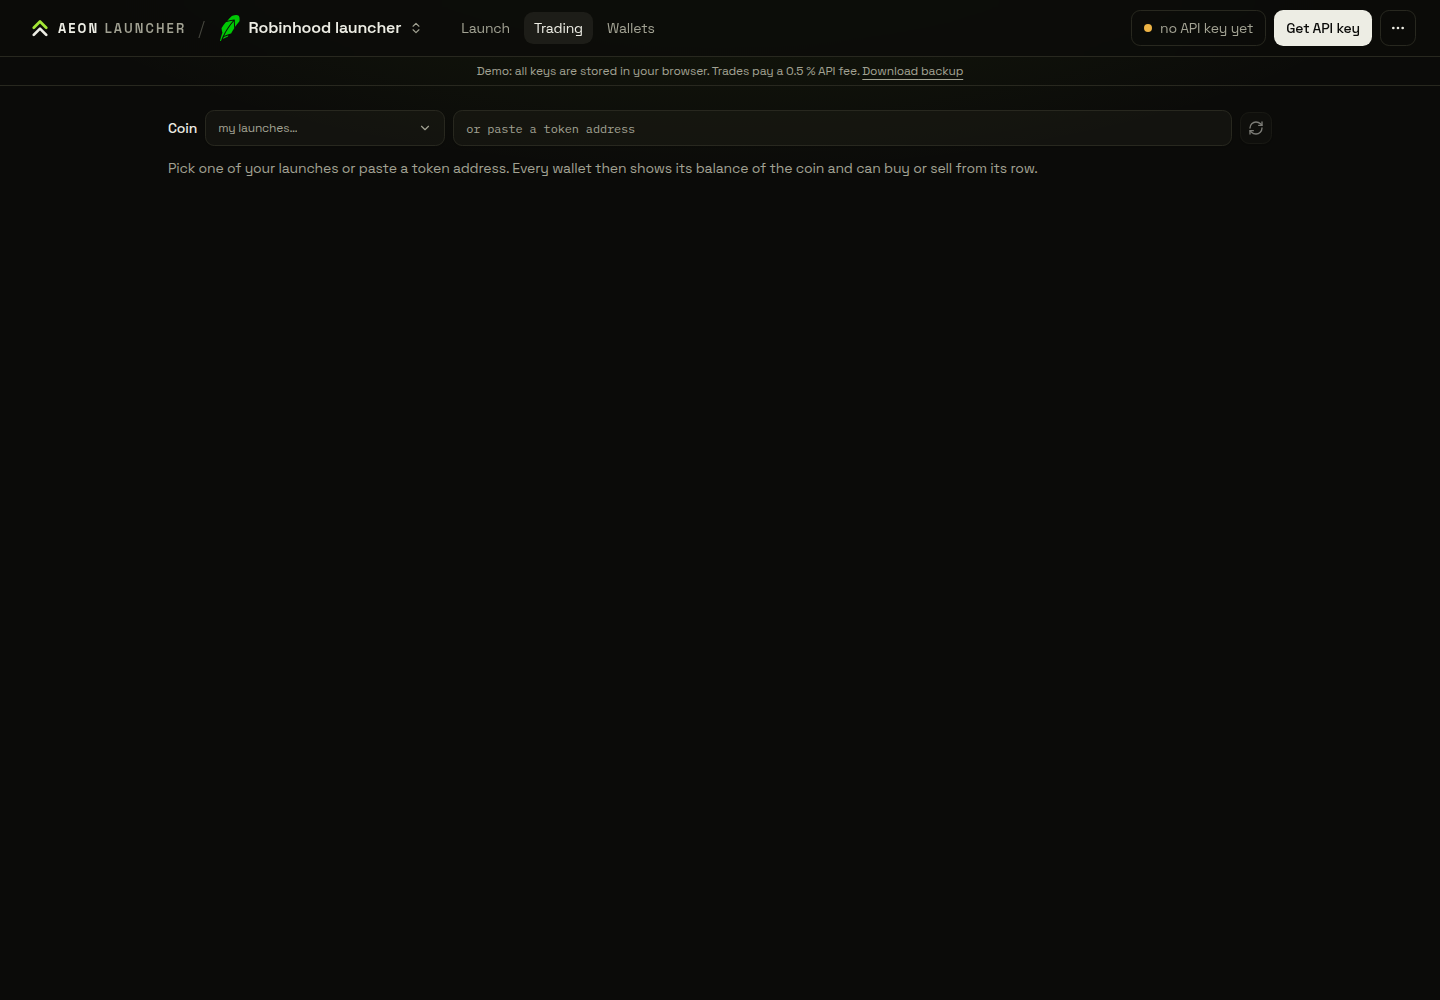
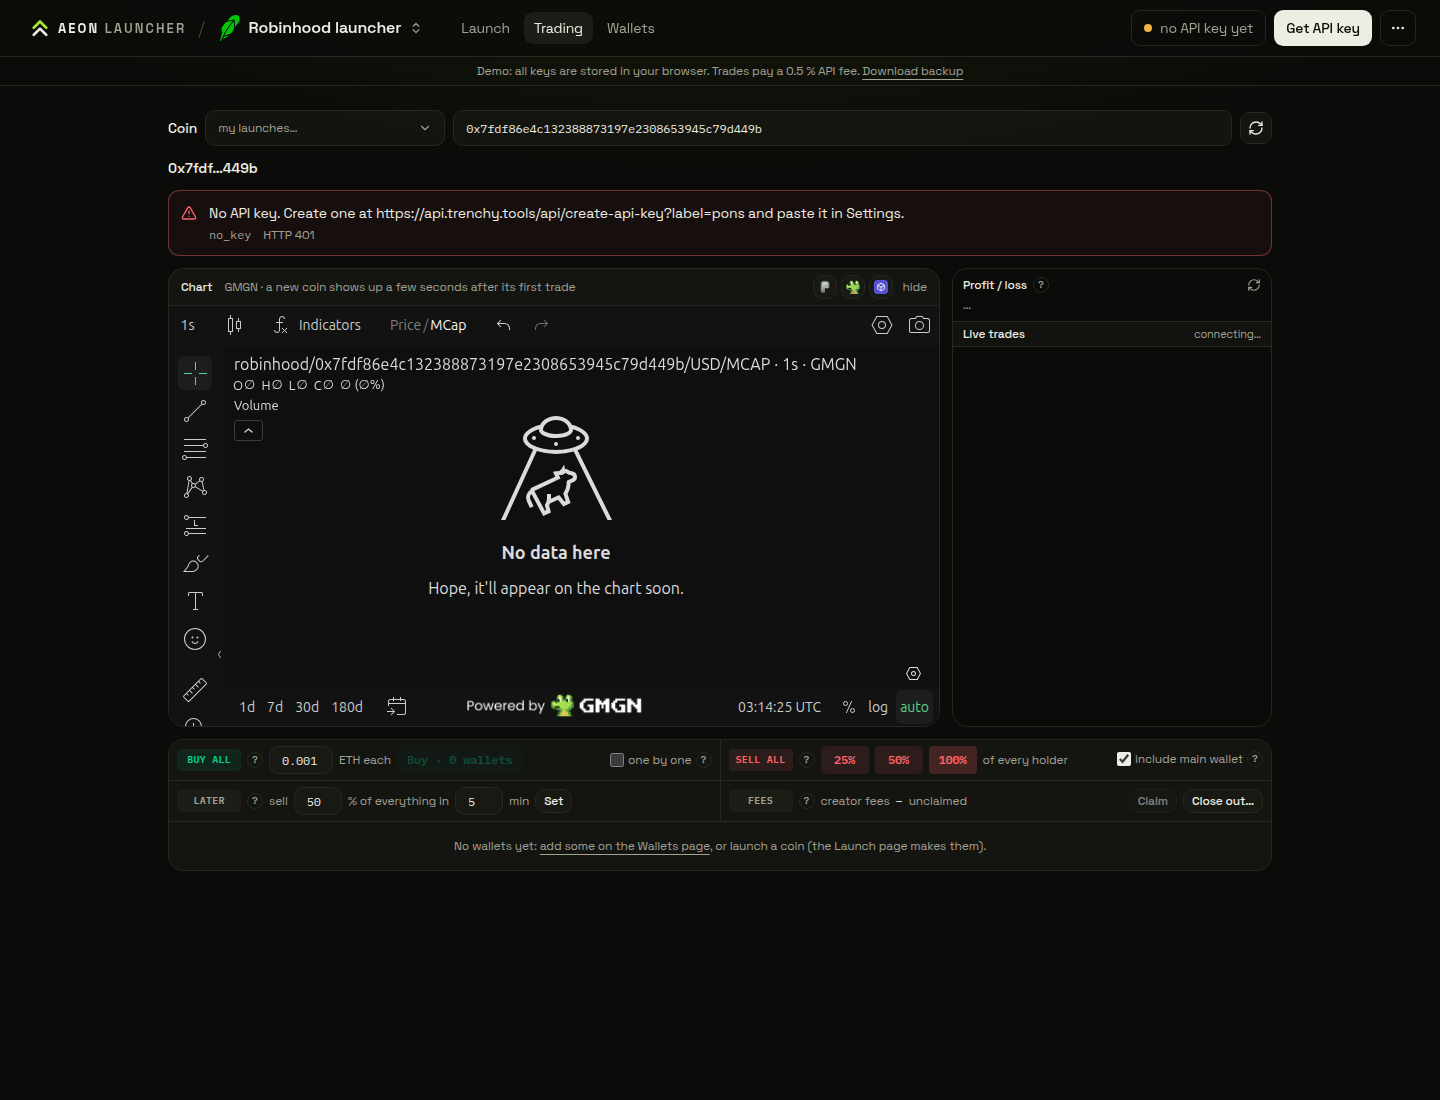
screenshots: wallets + trading

diff --git a/README.md b/README.md
@@ -210,6 +210,10 @@ Launch page:
 
 ![launch](.github/shot-launch.png)
 
+Wallets page:
+
+![wallets](.github/shot-wallets.png)
+
 Trading page:
 
 ![trading](.github/shot-trading.png)
